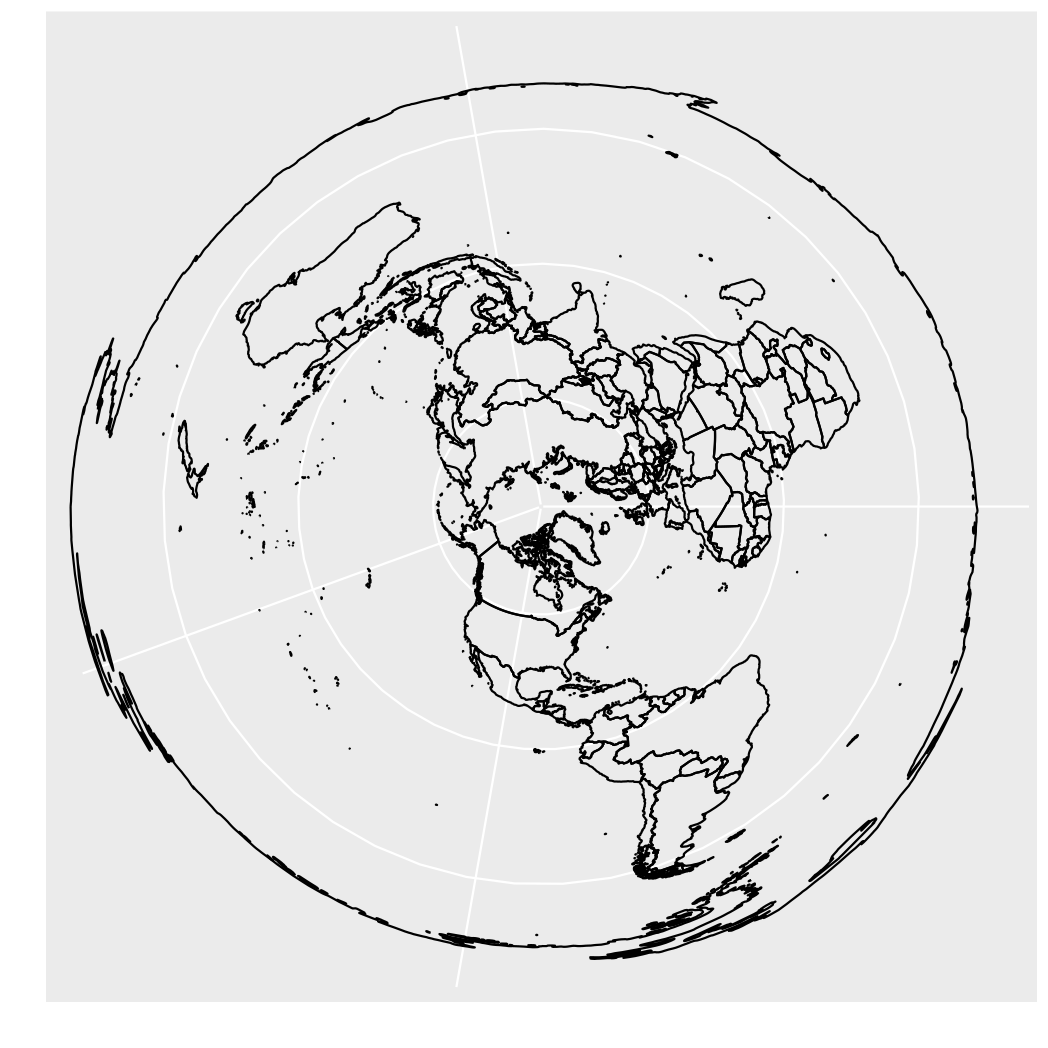
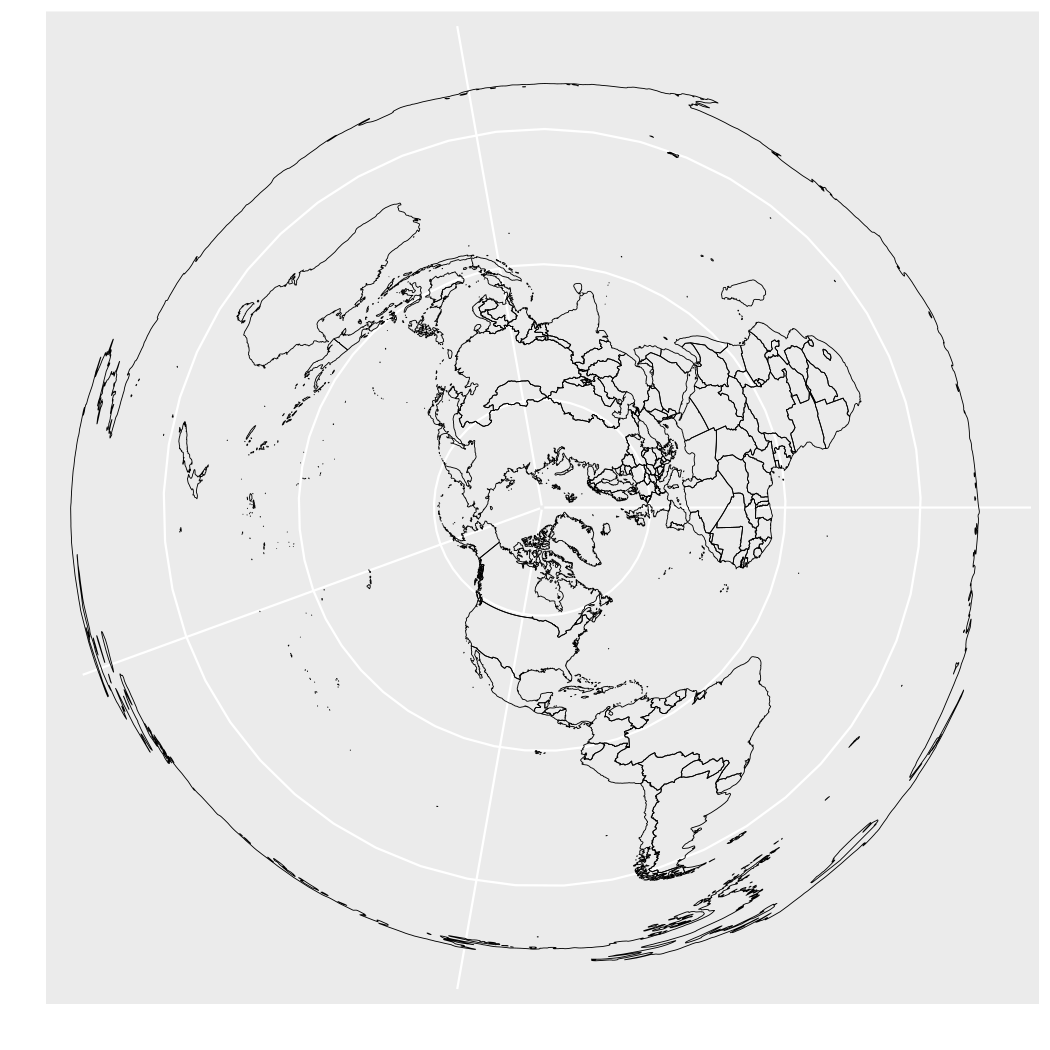
Updated geography (Google API).

diff --git a/Geography/README.md b/Geography/README.md
@@ -1,12 +1,7 @@
 # Geography Projects
 
-* `PacificFlights.csv`: List of flight routes in the Pacific ocean
-* `Pacific_Flights.R`: Island hopping in the Pacific ocean
-* `Sydney_Passengers.png`: Domestic passenger volumes from Sydney
-* `airports.csv`: List of airports and geospatial coordinates
-* `antipodes.R`: Code to find the antipode
+* `antipodes.R`: Visualising antipodes.
 * `flightpath_map.R`: Create a personal flight route map
-* `flights.csv`: Flight logbook
-* `flights_map.png`: Personal flight map
-* `pacifc_flights.png`: Map of flights in the Pacific ocean
+* `geocoding.R`: geocoding demo
+* `Pacific_Flights.R`: Island hopping in the Pacific ocean
 * `passengers.R`: Visualise passenger volumes in Australia
